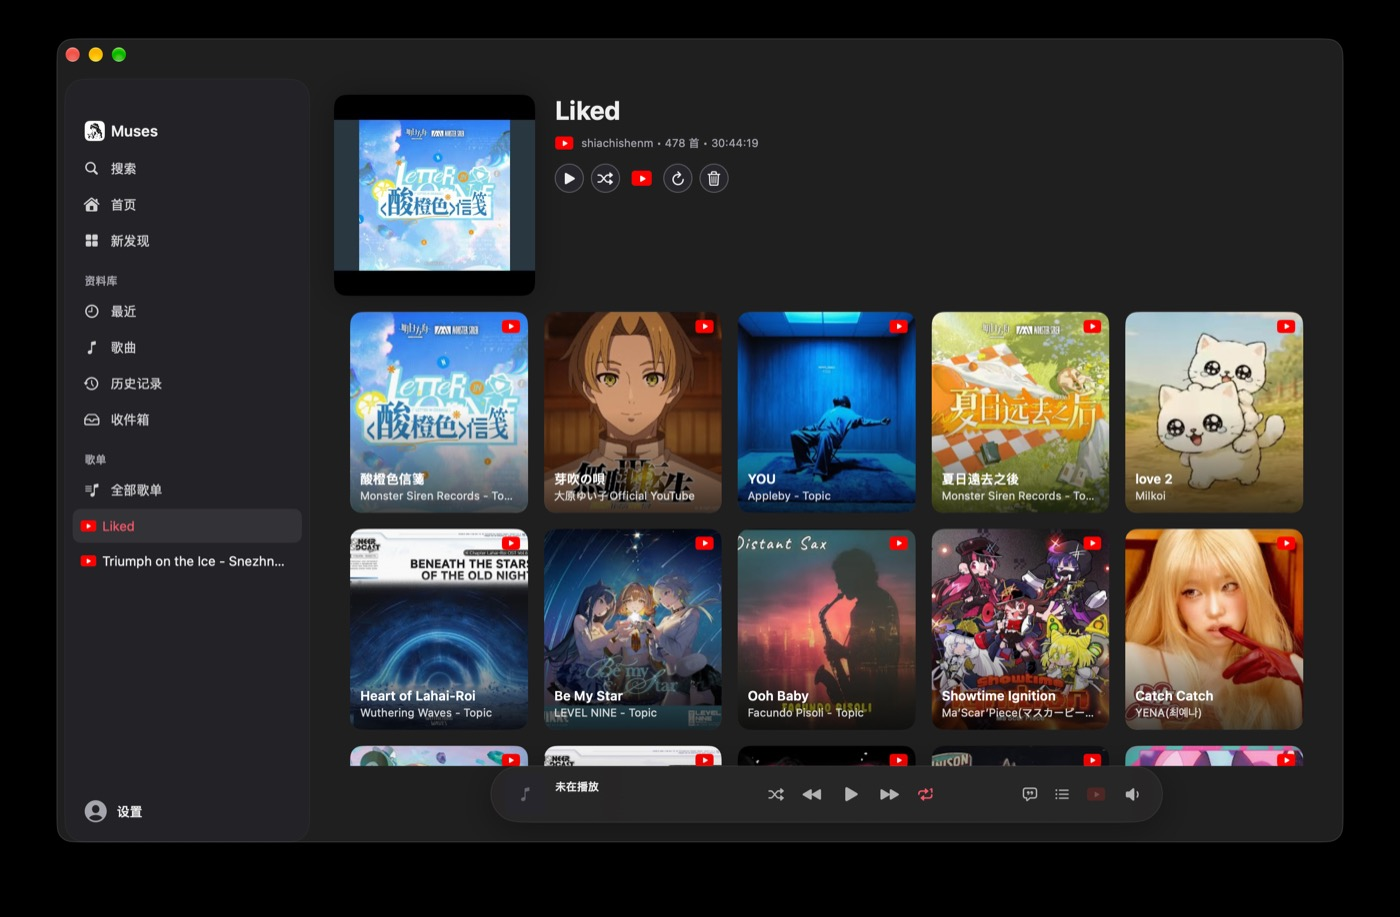
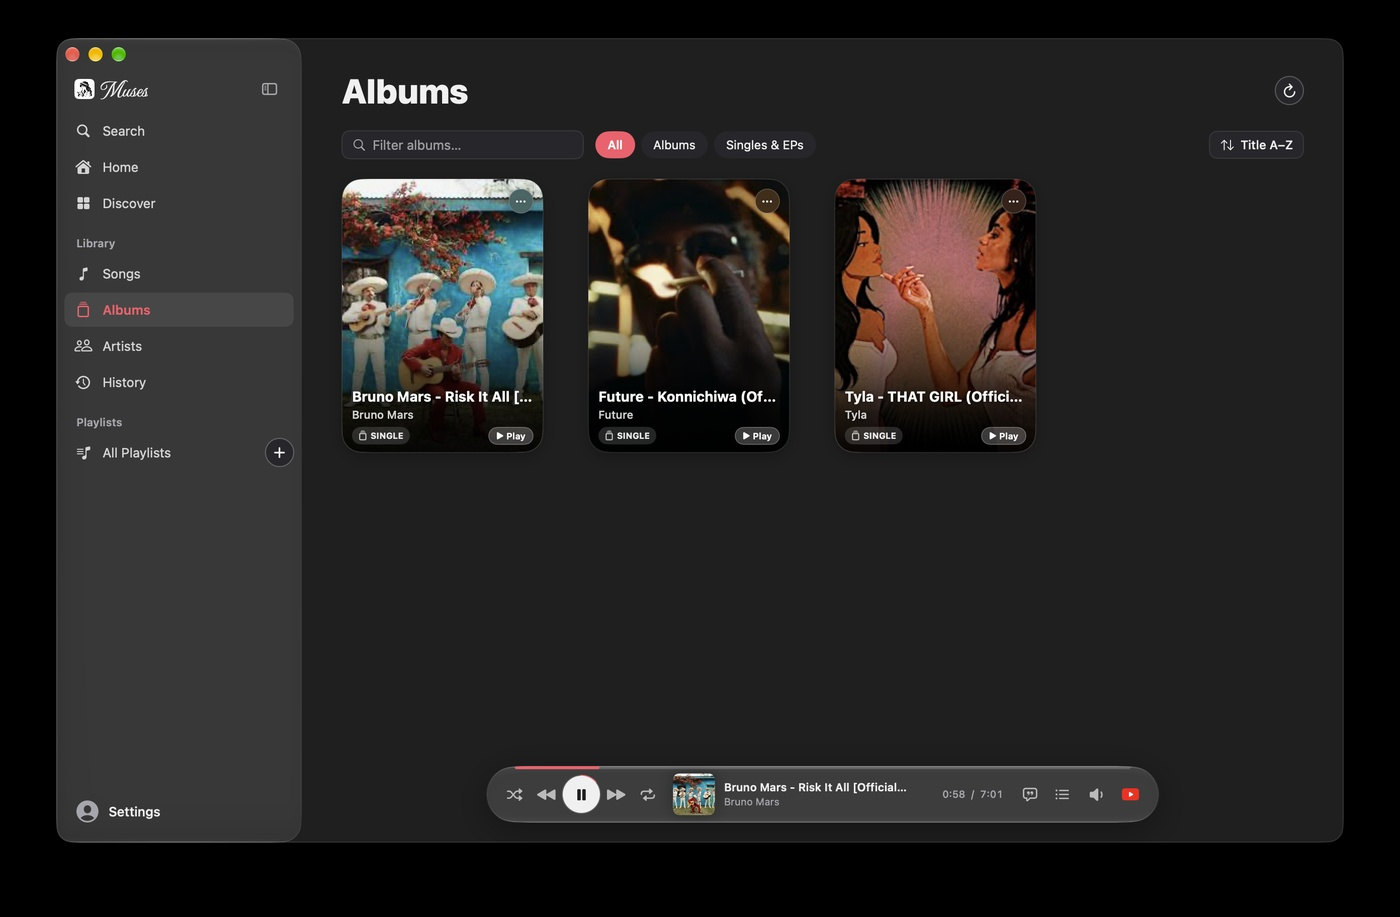
docs: update website screenshots with clean release build

diff --git a/docs/index.html b/docs/index.html
@@ -157,7 +157,7 @@
   <p class="kicker">Tour</p>
   <h2>Browsing, stats, and settings</h2>
   <div class="shots">
-    <figure class="shot"><img src="assets/library-liked.jpg" alt="Liked playlist as an album grid"><figcaption>Liked songs as a browsable album grid</figcaption></figure>
+    <figure class="shot"><img src="assets/library-liked.jpg" alt="Albums and releases catalog"><figcaption>Albums and releases catalog view</figcaption></figure>
     <figure class="shot"><img src="assets/history.jpg" alt="Listening history with playback heatmap"><figcaption>Listening history with a playback heatmap</figcaption></figure>
     <figure class="shot"><img src="assets/settings.jpg" alt="Glass settings sheet over the library"><figcaption>Glass settings sheet over the library</figcaption></figure>
   </div>

diff --git a/Sources/Muses/Features/History/ListeningHeatmap.swift b/Sources/Muses/Features/History/ListeningHeatmap.swift
@@ -49,6 +49,7 @@ struct ListeningHeatmapView: View {
                         .tag(Presentation.table)
                 }
                 .pickerStyle(.segmented)
+                .labelsHidden()
                 .frame(width: 230)
             }
 
